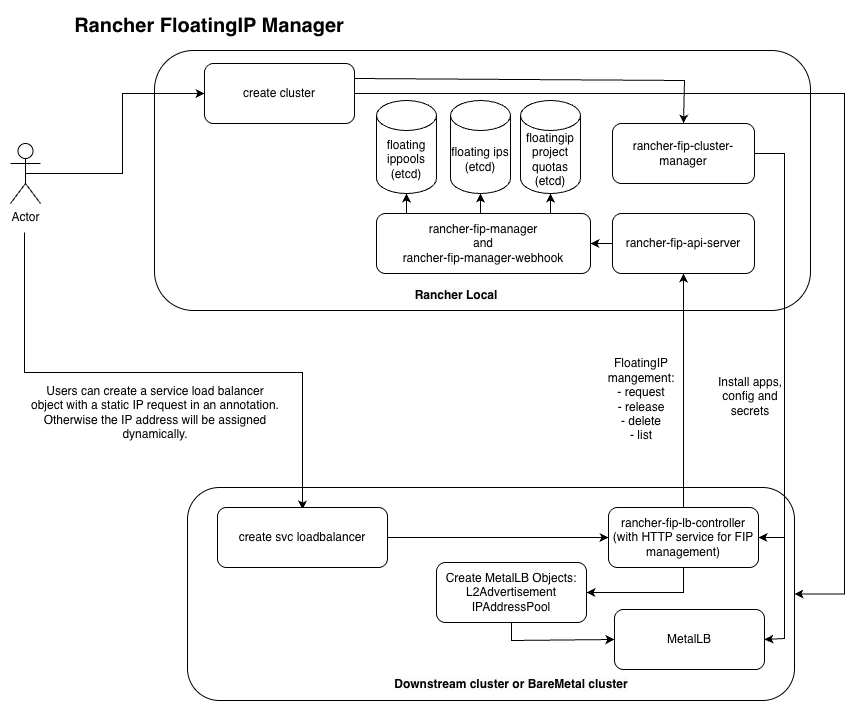
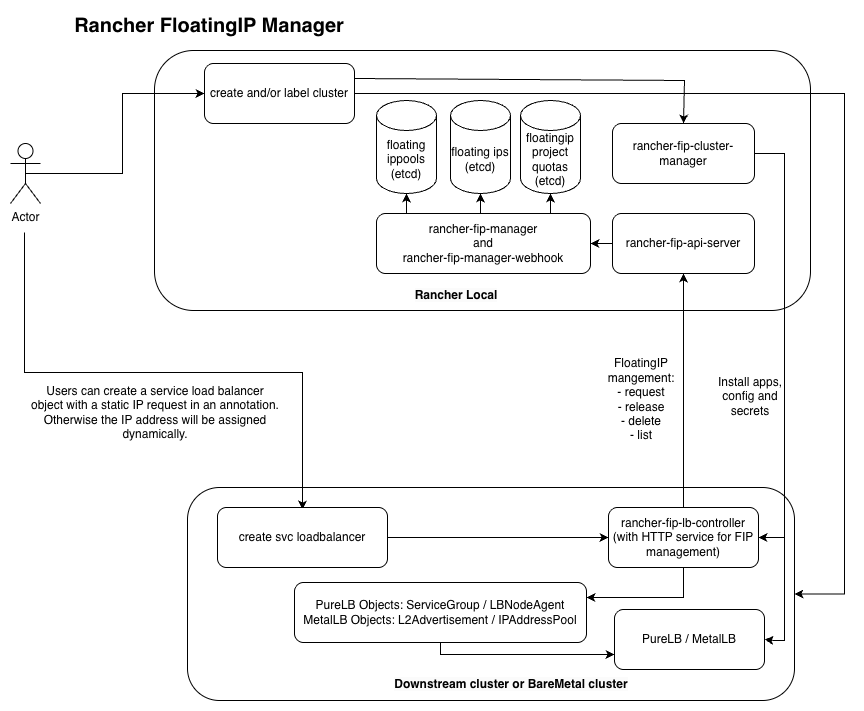
added the purelb load balancing solution

diff --git a/README.md b/README.md
@@ -22,13 +22,13 @@ The controller runs with high availability using a leader election mechanism, en
 
 ## How does the rancher-fip-manager work?
 
-When a user creates a downstream or bare-metal cluster in Rancher, the rancher-fip-cluster-manager detects it and checks for the cluster object label rancher-fip.
-If the label exists and is set to enabled, the manager creates the necessary API configurations and secrets, then installs the rancher-fip-lb-controller and MetalLB Helm charts in the new cluster.
+When a user creates a downstream or bare-metal cluster in Rancher, the rancher-fip-cluster-manager detects it and checks for the cluster object label `rancher-fip` and optionally for the label `rancher-fip-lbtype`.
+If the `rancher-fip` label exists and is set to `enabled`, the manager creates the necessary API configurations and secrets, then installs the rancher-fip-lb-controller and the specified load balancer type (PureLB or MetalLB) Helm charts in the new cluster. If no load balancer type is specified, PureLB is selected as the default.
 
-When the user later creates a Service LoadBalancer object within that cluster, the rancher-fip-lb-controller detects it and requests a new or existing IP address from the rancher-fip-api-server.
-The API server attempts to create a FloatingIP object, which is validated by the rancher-fip-manager-webhook to ensure it is allowed, correctly configured, and within the FloatingIPProjectQuota limits.
+When the user later creates a Service LoadBalancer object within that cluster, the rancher-fip-lb-controller detects it and requests an IP address from the rancher-fip-api-server.
+The API server attempts to create a FloatingIP object, which is validated by the rancher-fip-manager-webhook to ensure the request is allowed, correctly configured, and within the FloatingIPProjectQuota limits.
 
-If approved, the IP details are returned to the rancher-fip-lb-controller, which then creates the L2Advertisement and IPAddressPool objects. These are processed by the MetalLB controller, which assigns the IP address to the Service LoadBalancer.
+If approved, the IP details are returned to the rancher-fip-lb-controller, which then creates the PureLB or MetalLB objects. These are processed by the applicable controllers, which assign the IP address to the Service LoadBalancer.
 
 ![rancher-fip-manager](image/rancher-fip-manager.png)
 
@@ -189,7 +189,7 @@ Metrics are exported on port 8080 by default via the /metrics path. This can be 
 
 # License
 
-Copyright (c) 2025 Joey Loman <joey@binbash.org>
+Copyright (c) 2026 Joey Loman <joey@binbash.org>
 
 Licensed under the Apache License, Version 2.0 (the "License");
 you may not use this file except in compliance with the License.
